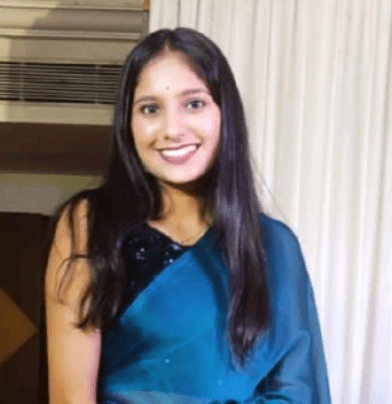
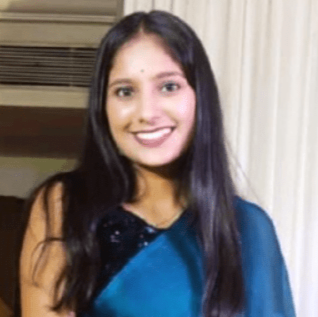
priya

diff --git a/src/pages/sucessstory/ss.js b/src/pages/sucessstory/ss.js
@@ -1,6 +1,7 @@
 import prashik from '../../assets/images/photo/prashik.png'; 
 import leena from '../../assets/images/photo/leena.png';
-import shivani from '../../assets/images/photo/shivani.png';  
+import shivani from '../../assets/images/photo/shivani.png';
+import priya from '../../assets/images/photo/priya.png';
 
 const testimonialData = [
     {
@@ -17,6 +18,11 @@ const testimonialData = [
       image: shivani,
       name: 'Shivani Dahake',
       text: '“Working with the Heeds Foundation has been an eye-opening experience for me. The team’s management is impeccable, and their impact on society is profoundly positive. Being part of this team has given me a front-row seat to the tangible changes we bring about in the community. It’s inspiring to see how our collective efforts translate into meaningful improvements in people’s lives. The Foundation’s efficiency and effectiveness in driving social change are commendable. It’s a privilege to be part of an organization that not only aims for but also achieves meaningful and lasting change.”'
+    },
+    {
+      image: priya,
+      name: 'Priya Kaware ',
+      text: '"I recently participated in a garbage cleaning campaign with the other volunteers from the Heeds Foundation. It was my first time engaging in such an activity. This experience has started to change my perspective on nature and Mother Earth. I am extremely thankful to the Heeds Foundation for this wonderful experience."'
     }
   ]
 
